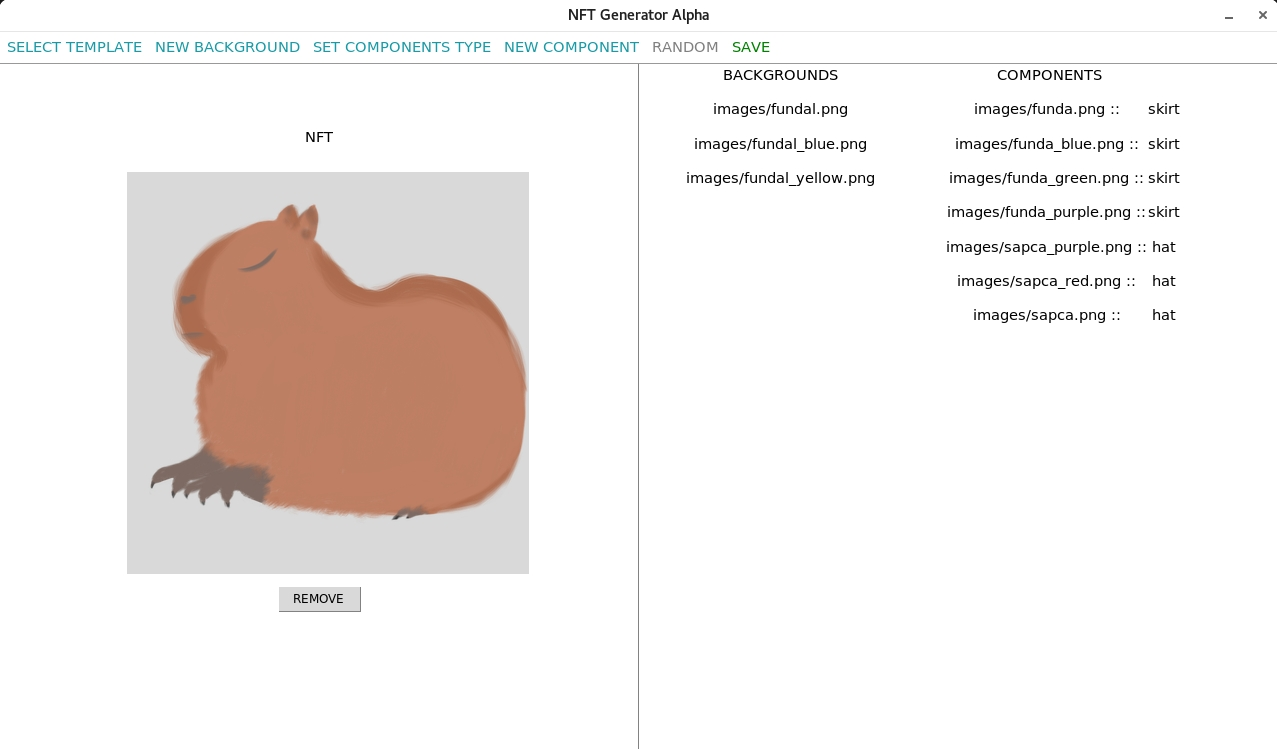
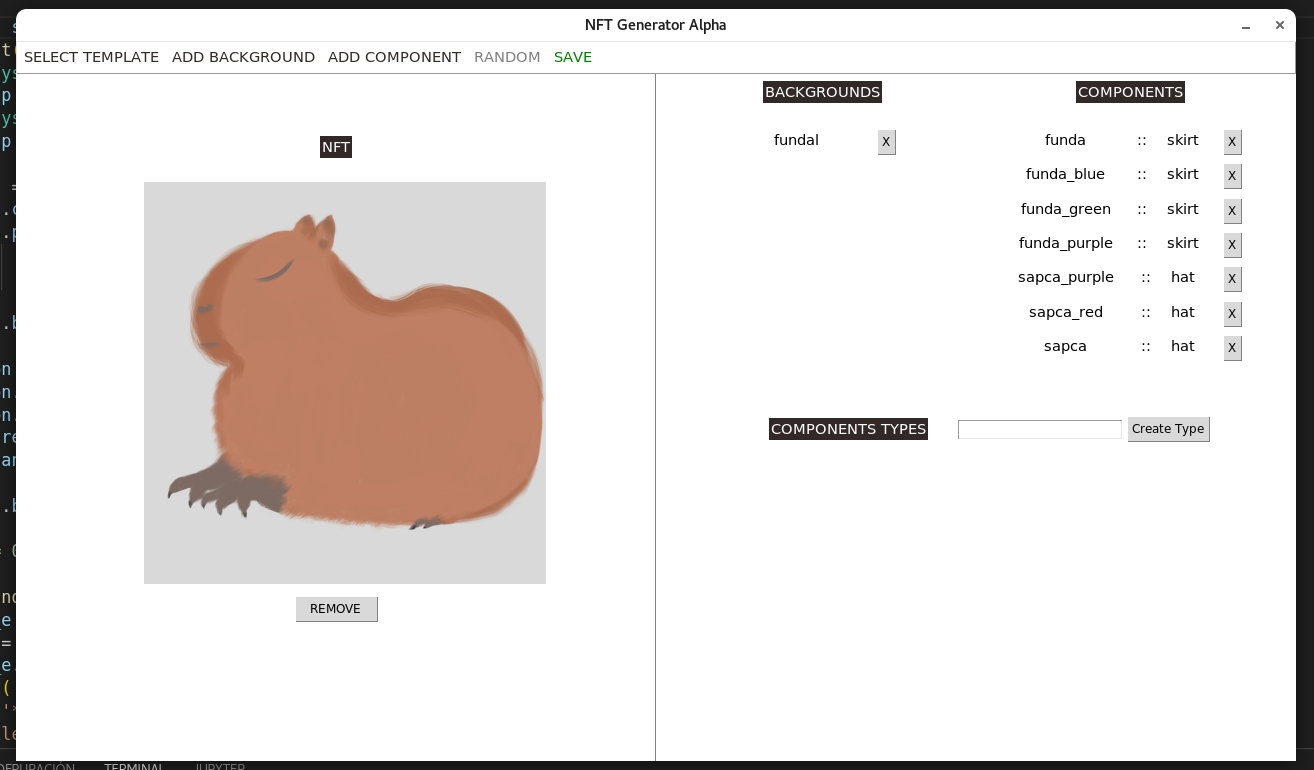
ui stage 3

diff --git a/app/ui.py b/app/ui.py
@@ -1,18 +1,17 @@
 import tkinter as tk
-from tkinter import ttk
+from tkinter import Button, ttk
 from tkinter import filedialog as fd
 from ttkthemes import ThemedTk
 from PIL import ImageTk, Image
 import json
-from tkinter import messagebox
+import sys
 
 file_name_config = './config_app.json'
-file_config_e = open(file_name_config, 'r')
-file_config = json.load(file_config_e)
-file_config_e.close()
 
 
 class BaseUI(ThemedTk):
+    backgrounds_list = {}
+
     def __init__(self) -> None:
         super().__init__()
         self.font_family = ('Inter', 11)
@@ -36,29 +35,35 @@ class BaseUI(ThemedTk):
         ndofsdgndfng.place(relx=0.1,
                      rely=0.45,
                      anchor='w')
+    
 
+        file_name_config = './config_app.json'
+        file_config_e = open(file_name_config, 'r')
+        file_config = json.load(file_config_e)
+        file_config_e.close()
 
         if file_config['Base template'] != None:
             self.base_file(file_config['Base template'], False)
 
-        if file_config['Backgrounds'] != None:
-            self.backgrounds_files = file_config['Backgrounds']
-            self.backgrounds()
+        self.backgrounds()
+
+
+            
 
         if file_config['Components'] != None:
             self.components_files = file_config['Components']
             self.components()
 
-        menu_list = [{'SELECT TEMPLATE': self.add_base_file}, {'NEW BACKGROUND': self.add_background},
-                     {'SET COMPONENTS TYPE': None}, {'NEW COMPONENT': None}]
+        menu_list = [{'SELECT TEMPLATE': self.add_base_file}, {'ADD BACKGROUND': self.add_background},
+                      {'ADD COMPONENT': None}]
 
         for i in range(len(menu_list)):
             for j in menu_list[i]:
                 barra_menus.add_command(label=j,
                                         command=menu_list[i][j],
                                         background='white',
-                                        foreground='#189AA7',
-                                        activebackground='#189AA7',
+                                        foreground='#322827',
+                                        activebackground='#322827',
                                         activeforeground='white',
                                         font=self.font_family,
                                         )
@@ -95,64 +100,159 @@ class BaseUI(ThemedTk):
         ).pack(fill='y', padx=10, expand=True)
 
     def components(self):
-        c = 0.05
+        c = 0.08
         for i in self.components_files:
             f = i['file']
-            p = tk.Label(self, text=f'{f} :: ')
+
+            if sys.platform.lower() == 'linux':
+                f = f.split('/')[-1].split('.')[0]
+            if sys.platform.lower() == 'win32':
+                f = f.split('\\')[-1].split('.')[0]
+
+            p = tk.Label(self, text=f'{f}', width=30, height=1)
             p.config(font=self.font_family, background='white')
             p.place(relx=0.82,
                     rely=c,
                     anchor='n')
 
-            p = tk.Label(self, text=i['type'])
+            typ = i['type']
+            p = tk.Label(self, text=f'::    {typ}')
             p.config(font=self.font_family, background='white')
-            p.place(relx=0.91,
+            p.place(relx=0.90,
                     rely=c,
                     anchor='n')
+
+            boton = ttk.Button(self, text="X", command=lambda: self.remove_item(f), )
+            boton.config(width=1)
+            boton.place(relx=0.95,
+                   rely=c,
+                   anchor='n')
 
             c += 0.05
 
     def backgrounds(self):
-        c = 0.05
-        for i in self.backgrounds_files:
-            i = tk.Label(self, text=i)
-            i.config(font=self.font_family, background='white')
-            i.place(relx=0.61,
+        c = 0.08
+        file_config_e = open(file_name_config, 'r')
+        file_config = json.load(file_config_e)
+        file_config_e.close()
+
+        self.backgrounds_list = {}
+
+        if len(file_config['Backgrounds']) >  0:
+            self.backgrounds_files = file_config['Backgrounds']
+
+            print(self.backgrounds_files)
+
+            for i in self.backgrounds_files:
+                print(i)
+                if sys.platform.lower() == 'linux':
+                    p = i.split('/')[-1].split('.')[0]
+                if sys.platform.lower() == 'win32':
+                    p = i.split('\\')[-1].split('.')[0]
+
+                ne_l = tk.Label(self, text=p, width=20)
+                ne_l.config(font=self.font_family, background='white')
+                ne_l.place(relx=0.61,
+                        rely=c,
+                        anchor='n')
+
+                self.backgrounds_list[i] = ne_l
+
+                boton = ttk.Button(self, text='X', command=lambda: self.remove_item({'Backgrounds': i}))
+                boton.config(width=1)
+                boton.place(relx=0.68,
                     rely=c,
                     anchor='n')
-            c += 0.05
+                
+                self.backgrounds_list[f'{i}_btn'] = boton
+
+                c += 0.05
 
     def add_background(self):
+        file_config_e = open(file_name_config, 'r')
+        file_config = json.load(file_config_e)
+        file_config_e.close()
         filetypes = (
             ('png', '*.png'),
             ('All files', '*.*')
         )
 
-        filename = fd.askopenfilename(
+        filename = fd.askopenfilenames(
             title='Open a file',
             initialdir='/',
             filetypes=filetypes)
 
+        filename = self.tk.splitlist(filename)
+
+        if len(filename) > 0:
+            a_file = open(file_name_config, 'w')
+            for i in filename:
+                file_config['Backgrounds'].append(i)
+            json.dump(file_config, a_file)
+            a_file.close()
+            self.backgrounds()
+
     def text(self):
         base = tk.Label(self, text="NFT")
-        base.config(font=self.font_family, background='white')
+        base.config(font=self.font_family, background='#322827', foreground='white')
         base.place(relx=0.25,
                    rely=0.09,
                    anchor='n')
 
+
         bks = tk.Label(self, text="BACKGROUNDS")
-        bks.config(font=self.font_family, background='white')
-        bks.place(relx=0.61,
-                  rely=0,
+        bks.config(font=self.font_family, background='#322827', foreground='white')
+        bks.place(relx=0.63,
+                  rely=0.01,
                   anchor='n')
 
         cmts = tk.Label(self, text="COMPONENTS")
-        cmts.config(font=self.font_family, background='white')
-        cmts.place(relx=0.82,
-                   rely=0,
+        cmts.config(font=self.font_family, background='#322827', foreground='white')
+        cmts.place(relx=0.87,
+                   rely=0.01,
+                   anchor='n')
+        
+        cmts = tk.Label(self, text="COMPONENTS TYPES")
+        cmts.config(font=self.font_family, background='#322827', foreground='white')
+        cmts.place(relx=0.65,
+                   rely=0.5,
+                   anchor='n')
+        
+        entry = ttk.Entry()
+        entry.place(relx=0.80,
+                   rely=0.503,
                    anchor='n')
 
+        boton = ttk.Button(text="Create Type", command=self.remove_base_template)
+        boton.place(relx=0.9,
+                    rely=0.498,
+                    anchor='n')
+
+    def remove_item(self, metadata):
+        file_config_e = open(file_name_config, 'r')
+        file_config = json.load(file_config_e)
+        file_config_e.close()
+        a_file = open(file_name_config, 'w')
+        try:
+            file_config[list(metadata.keys())[0]].remove(metadata[list(metadata.keys())[0]])
+        except:
+            pass
+        json.dump(file_config, a_file)
+        a_file.close()
+
+        if 'Backgrounds' == list(metadata.keys())[0]:    
+            self.backgrounds_list[metadata[list(metadata.keys())[0]]].after(100, self.backgrounds_list[metadata[list(metadata.keys())[0]]].destroy())
+            self.backgrounds_list[f'{metadata[list(metadata.keys())[0]]}_btn'].after(100, self.backgrounds_list[f'{metadata[list(metadata.keys())[0]]}_btn'].destroy())
+
+            self.backgrounds_list.pop(metadata[list(metadata.keys())[0]])
+            self.backgrounds_list.pop(f'{metadata[list(metadata.keys())[0]]}_btn')
+
+            self.backgrounds()
+
     def remove_base_template(self):
+        file_config_e = open(file_name_config, 'r')
+        file_config = json.load(file_config_e)
+        file_config_e.close()
         a_file = open(file_name_config, 'w')
         file_config['Base template'] = None
         json.dump(file_config, a_file)
@@ -162,6 +262,9 @@ class BaseUI(ThemedTk):
 
     def base_file(self, filename, is_new) -> None:
         if is_new:
+            file_config_e = open(file_name_config, 'r')
+            file_config = json.load(file_config_e)
+            file_config_e.close()
             a_file = open(file_name_config, 'w')
             file_config['Base template'] = filename
             json.dump(file_config, a_file)
@@ -194,8 +297,8 @@ class BaseUI(ThemedTk):
             title='Open a file',
             initialdir='/',
             filetypes=filetypes)
-
-        self.base_file(filename, True)
+        if len(filename) > 1:
+            self.base_file(filename, True)
 
 
 app = BaseUI()
